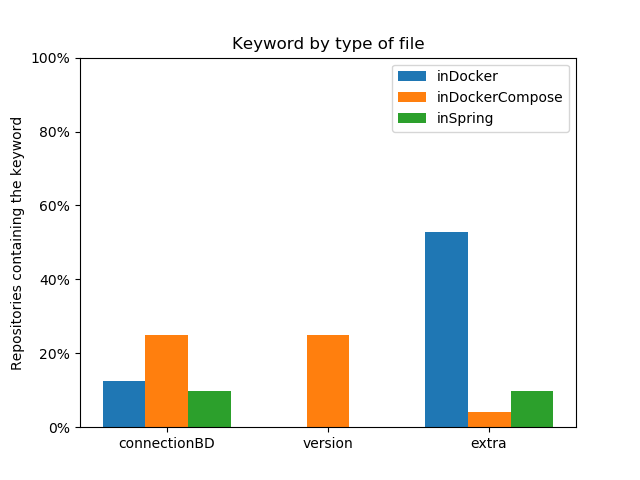
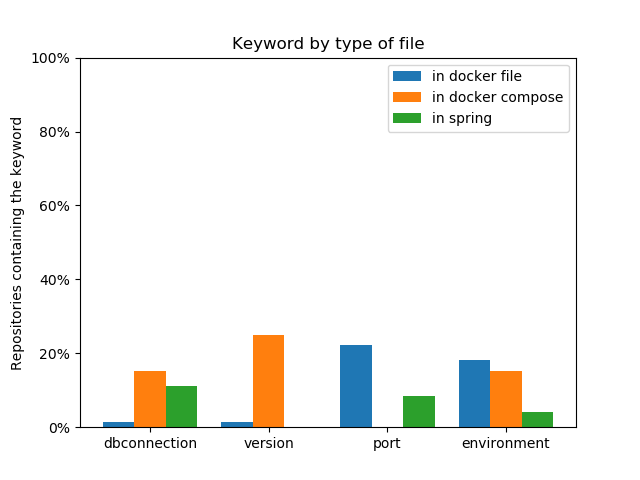
added both histograms to script

diff --git a/graphs.py b/graphs.py
@@ -45,10 +45,42 @@ def keyword(data,labels,totalRepos,filename):
     plt.title('Keyword by type of file')
     plt.gca().yaxis.set_major_formatter(PercentFormatter(1))
     plt.xticks(legendsLoc,legends)
+    plt.ylim(0, 1)
     plt.legend()
     plt.savefig('graphs/'+filename+'.png')
     plt.show()
 
+def keyword_values(data, labels, totalRepos, filename):
+    """same as Keyword but shows the values"""
+    file = []
+    compose = []
+    both = []
+    legends = []
+    legendsLoc = []
+    maxi = 0
+    weights = [[], [], []]
+    for i in range(len(data)):
+        legendsLoc.append(i + 1)
+    for i in range(len(data)):
+        legends.append(data[i][0])
+        file.append(i + 1)
+        weights[0].append(int(data[i][1]))
+        maxi = max(maxi, int(data[i][1]))
+        compose.append(i + 1)
+        weights[1].append(int(data[i][2]))
+        maxi = max(maxi, int(data[i][2]))
+        both.append(i + 1)
+        weights[2].append(int(data[i][3]))
+        maxi = max(maxi, int(data[i][3]))
+    bins = [x + 0.5 for x in range(0, len(data) + 1)]
+    plt.hist([file, compose, both], weights=weights, bins=bins, label=labels, histtype='bar', )
+    plt.ylabel('Repositories containing the keyword')
+    plt.title('Keyword by type of file')
+    plt.xticks(legendsLoc, legends)
+    plt.ylim(0, maxi)
+    plt.legend()
+    plt.savefig('graphs/' + filename + '.png')
+    plt.show()
 
 #repartitionPie(12,20,31,52)
 

diff --git a/fileReader.py b/fileReader.py
@@ -32,3 +32,4 @@ else:
         values.append(row)
 
 graphs.keyword(values, labels, repos, "KeywordHist")
+graphs.keyword_values(values, labels, repos, "KeywordHistValues")
